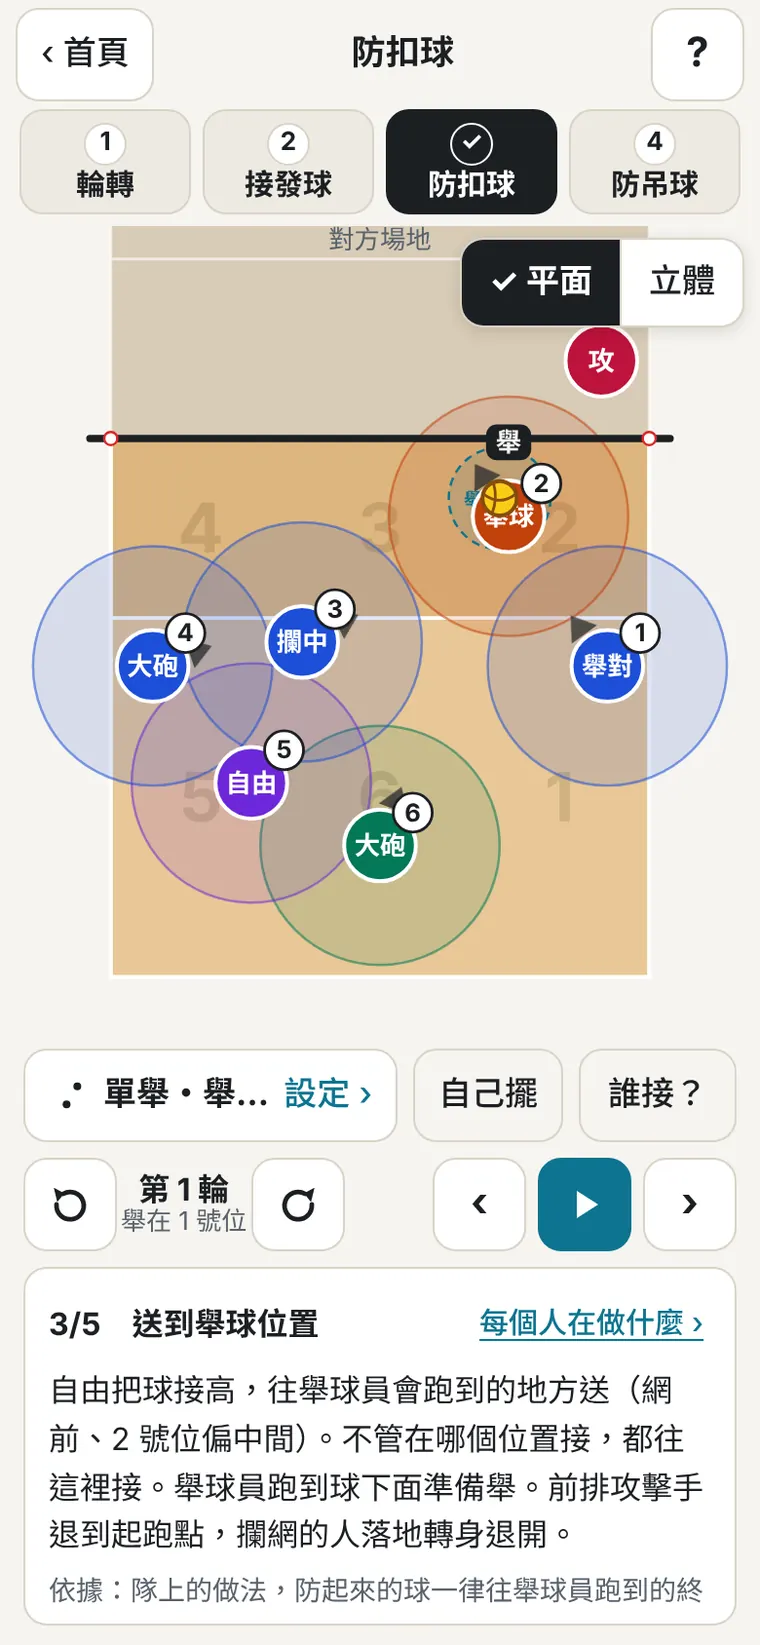
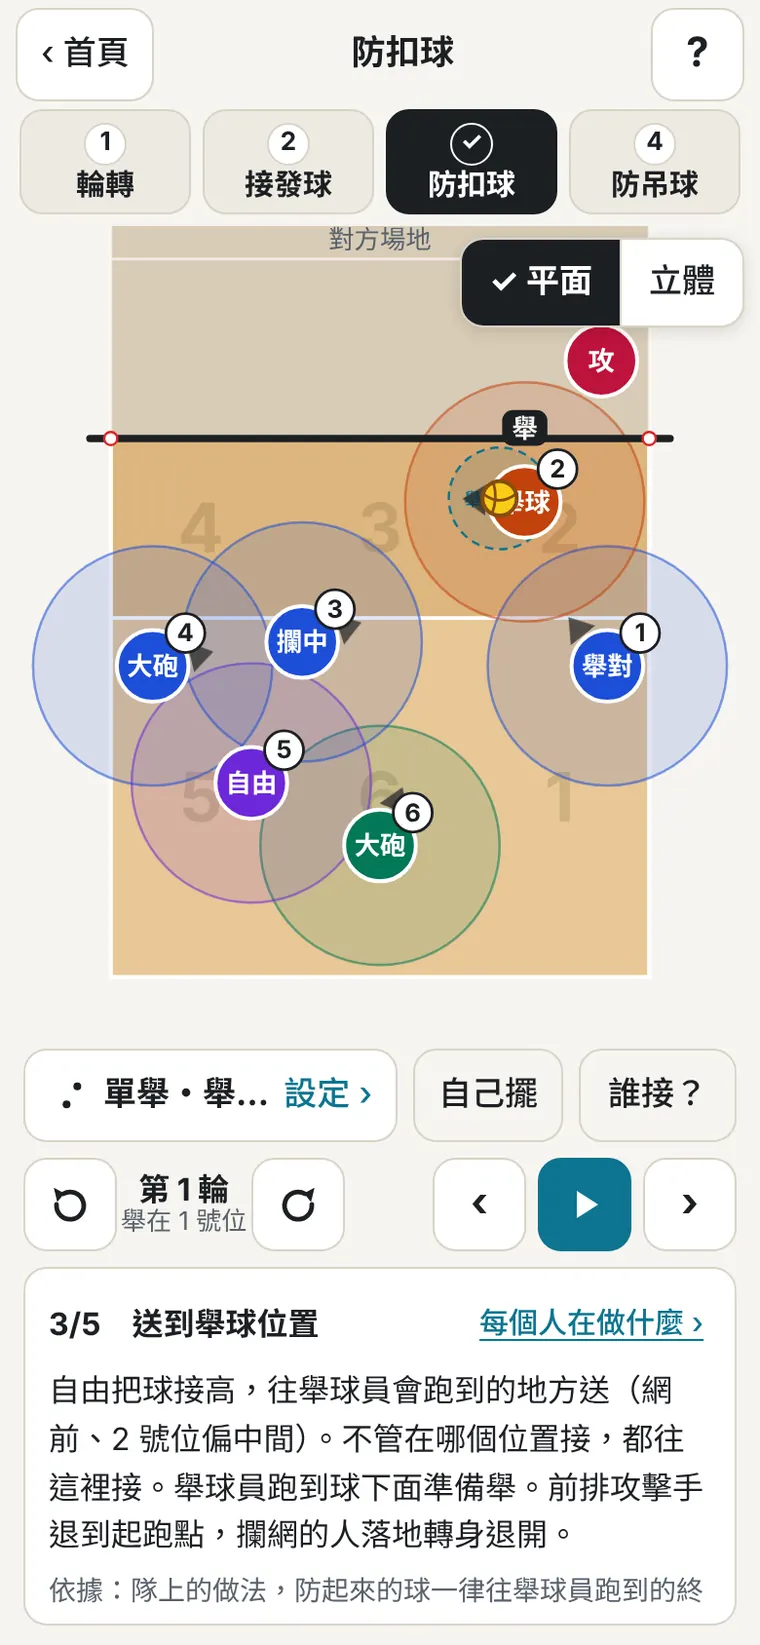
排球站位教室 v2.5.2：球碰到手、舉球員手不亂飛、扣球手型
- 接球、舉球那一刻球會靠到那個人的手上（之前像用腳接、球從身體旁邊過去）
- 舉球員第一人稱：手從下面慢慢抬上來、接到球往攻擊手推出去再放下；鏡頭先盯住接球點，頭不跟著球甩
- 舉球員面向 4 號位、站在球的右邊一點，球落在額頭前上方
- 扣球：左手往上指著球、右手拉到頭的右後上方（之前左手往旁邊平舉）
- 第一人稱時貼在鏡頭旁的隊友先不畫

Claude-Session: https://claude.ai/code/session_01Q8m2fzsawgKx5UKmuuzCmE

diff --git a/js/gl3d.js b/js/gl3d.js
@@ -116,7 +116,7 @@ const POSES = {
   set:       { lean:2,  hip:[14,14], knee:[24,24], sh:[150,150], abd:[30,30],  el:[30,30],  wide:.30, stag:.14, ik:'set' },
   block:     { lean:0,  hip:[10,10], knee:[22,22], sh:[172,172], abd:[6,6],    el:[4,4],    wide:.24, stag:0 },
   blockReady:{ lean:4,  hip:[16,16], knee:[30,30], sh:[110,110], abd:[22,22],  el:[30,30],  wide:.30, stag:0, ik:'blockReady' },
-  spike:     { lean:-6, hip:[16,30], knee:[30,52], sh:[150,168], abd:[20,26],  el:[40,-105], wide:.22, stag:0 },
+  spike:     { lean:-6, hip:[16,30], knee:[30,52], sh:[165,150], abd:[8,30],   el:[10,30],   wide:.22, stag:0, ik:'spike' },
   serve:     { lean:6,  hip:[8,8],   knee:[14,14], sh:[160,120], abd:[16,30],  el:[10,-95], wide:.28, stag:-.22 },
   // 跨步壓低接球：右腳跨出去、膝蓋接近地板，雙手平台伸向球（左腳在前時整個左右對調）
   lunge:     { lean:38, hip:[18,80], knee:[44,104], sh:[64,64],   abd:[-19,-19], el:[0,0],   wide:.78, stag:.48 },
@@ -127,13 +127,13 @@ const POSES = {
 };
 // 跑步：放開手擺臂（不抱著手跑）；amp 是快慢，慢跑擺幅小
 // 兩段手臂（上臂 .29、前臂 .27）：肩膀到目標，手肘往外、往下彎
-function armIK(S0, T, sd){
+function armIK(S0, T, sd, pole){
   const a = .29, c = .27;
   let v = [T[0] - S0[0], T[1] - S0[1], T[2] - S0[2]];
   let d = Math.hypot(v[0], v[1], v[2]) || 1e-3;
   const u = [v[0] / d, v[1] / d, v[2] / d];
   d = Math.min(a + c - .002, Math.max(Math.abs(a - c) + .02, d));
-  let p = [sd, 0, -.5]; const pr = p[0] * u[0] + p[1] * u[1] + p[2] * u[2];
+  let p = pole || [sd, 0, -.5]; const pr = p[0] * u[0] + p[1] * u[1] + p[2] * u[2];
   p = [p[0] - u[0] * pr, p[1] - u[1] * pr, p[2] - u[2] * pr];
   const pl = Math.hypot(p[0], p[1], p[2]) || 1; p = [p[0] / pl, p[1] / pl, p[2] / pl];
   const ca = (a * a + d * d - c * c) / (2 * a * d), sa = Math.sqrt(Math.max(0, 1 - ca * ca));
@@ -323,6 +323,7 @@ function create(canvas, overlay){
     sphere(add(headC, add(mul(F, -.03), [0, 0, .025])), .113, HAIR);
     sphere(add(headC, add(mul(F, -.13), [0, 0, -.02])), .052, HAIR);
     // 手
+    const wrists = [];
     for (let i = 0; i < 2; i++){
       const sd = i ? 1 : -1;
       const shl = [sd * .19, pel[1] + spine[1] * .45, pel[2] + spine[2] * .45];
@@ -331,10 +332,11 @@ function create(canvas, overlay){
       let b = [0, 1, .6]; const pr = dot(b, up); b = norm(sub(b, mul(up, pr)));
       const fore = norm(add(mul(up, Math.cos(el)), mul(b, Math.sin(el))));
       let elb = add(shl, mul(up, .29)), wr = add(elb, mul(fore, .27));
-      if (s.ikW > .01 && s.ikKind){
+      if (s.ikW > .01 && s.ikKind && !(s.ikKind === 'spike' && sd < 0)){
         const head = add(add(add(pel, mul(spine, .58)), [0, .02, .1]), [0, 0, 0]);
-        const T = s.ikKind === 'set' ? add(head, [sd * .1, .2, .2]) : add(shl, [sd * .05, .16, .32]);
-        const ik = armIK(shl, T, sd);
+        // 扣球：右手拉到頭的右後上方，手肘抬高往外（左手照角度往上指著球）
+        const T = s.ikKind === 'set' ? add(head, [sd * .1, .2, .2]) : s.ikKind === 'spike' ? add(head, [.16, -.16, .16]) : add(shl, [sd * .05, .16, .32]);
+        const ik = armIK(shl, T, sd, s.ikKind === 'spike' ? [1, -.3, .6] : null);
         elb = add(elb, mul(sub(ik[0], elb), s.ikW)); wr = add(wr, mul(sub(ik[1], wr), s.ikW));
       }
       const S0 = pt(shl), E0 = pt(elb), W0 = pt(wr);
@@ -344,42 +346,46 @@ function create(canvas, overlay){
       sphere(E0, .041, SKIN);
       limb(E0, W0, .036, SKIN);
       sphere(add(W0, mul(norm(sub(W0, E0)), .04)), .044, SKIN);
+      wrists.push(add(W0, mul(norm(sub(W0, E0)), .05)));
     }
+    s.hand = mul(add(wrists[0], wrists[1]), .5);
     return add(headC, [0, 0, .2]);
   }
   // 第一人稱：自己的兩隻手（雙手前臂合起來，球接進手裡）
   // 第一人稱的手：只畫前臂和手（上臂、肩膀太靠近眼睛，畫出來會變成擋住畫面的大柱子）
-  function drawArms(a){
+  // 手的位置慢慢跟過去：剛出現時從畫面下面抬上來，收手時往下放出畫面，不會一下子跳走
+  const arm = { c:null, sep:.035 };
+  function drawArms(a, dt){
     const e = cam.eye, r = cam.r, Zu = [0, 0, 1];
     const fh = norm([cam.f[0], cam.f[1], 0]);              // 水平的前方
-    const fore = (elb, h) => { limb(elb, h, .032, SKIN); };
+    let tgt, sep;
     if (a.pose === 'set'){
-      // 舉球：雙手在額頭前上方張開成三角形，手肘往外、往下；球來了手迎到球下面
-      let c = add(add(e, mul(Zu, .3)), mul(fh, .26));
-      if (a.at){ const b = a.at; c = [b[0] - fh[0] * .04, b[1] - fh[1] * .04, b[2] - .12]; }
-      for (const sd of [-1, 1]){
-        const h = add(c, mul(r, sd * .085));
-        const elb = add(add(add(h, mul(Zu, -.26)), mul(r, sd * .17)), mul(fh, -.06));
-        fore(elb, h);
-        ellip(h, mul(r, .035), mul(fh, .03), mul(Zu, .055), SKIN);
-      }
-      return;
+      tgt = add(add(e, mul(Zu, .36)), mul(fh, .36)); sep = .09;
+      if (a.at){ const b = a.at; tgt = [b[0] - fh[0] * .04, b[1] - fh[1] * .04, b[2] - .12]; }
+    } else if (a.pose === 'down'){
+      tgt = add(add(e, mul(fh, .35)), mul(Zu, -1.0)); sep = .12;
+    } else {
+      tgt = add(add(e, mul(fh, .6)), mul(Zu, -.6)); sep = .035;
+      if (a.at){ const d = sub(a.at, e), L = Math.hypot(d[0], d[1], d[2]) || 1, kk = Math.max(.5, Math.min(.85, L)) / L; tgt = add(add(e, mul(d, kk)), mul(Zu, -.08)); }
     }
-    let hand = add(add(e, mul(fh, .6)), mul(Zu, -.6));
-    if (a.at){
-      // 接球：雙手併攏成平台，迎到球的下面
-      const d = sub(a.at, e), L = Math.hypot(d[0], d[1], d[2]) || 1, kk = Math.max(.5, Math.min(.85, L)) / L;
-      hand = add(add(e, mul(d, kk)), mul(Zu, -.08));
-    }
-    // 前臂從手往身體方向（往後、往下、稍微往外）
-    const toBody = norm(sub(add(e, mul(Zu, -.45)), hand));
+    if (!arm.c) arm.c = add(add(tgt, mul(Zu, -.55)), mul(fh, .25));
+    const k = 1 - Math.exp(-(dt || 1 / 60) * 11);
+    arm.c = add(arm.c, mul(sub(tgt, arm.c), k));
+    arm.sep += (sep - arm.sep) * k;
+    const c = arm.c, setLike = arm.sep > .06;
     for (const sd of [-1, 1]){
-      const h = add(hand, mul(r, sd * .035));
-      const elb = add(add(h, mul(toBody, .27)), mul(r, sd * .07));
-      fore(elb, h);
-      ellip(h, mul(r, .03), mul(fh, .05), mul(Zu, .022), SKIN);
+      const h = add(c, mul(r, sd * arm.sep));
+      let elb;
+      if (setLike) elb = add(add(add(h, mul(Zu, -.26)), mul(r, sd * .17)), mul(fh, -.06));
+      else { const toBody = norm(sub(add(e, mul(Zu, -.45)), h)); elb = add(add(h, mul(toBody, .27)), mul(r, sd * .07)); }
+      // 只畫靠手的那一段前臂：靠近眼睛的那一段畫出來會變成擋住畫面的大柱子
+      limb(add(h, mul(sub(elb, h), .55)), h, .03, SKIN);
+      if (setLike){ ellip(h, mul(r, .045), mul(fh, .03), mul(Zu, .07), SKIN); ellip(add(h, mul(Zu, .07)), mul(r, .04), mul(fh, .025), mul(Zu, .04), SKIN); }
+      else ellip(h, mul(r, .03), mul(fh, .05), mul(Zu, .022), SKIN);
     }
   }
+  function armHand(){ return arm.c; }
+  function handOf(id){ const s = people.get(id); return s && s.hand; }
   /* ---------- 畫一張 ---------- */
   let lastT = 0;
   function render(scene){
@@ -433,7 +439,7 @@ function create(canvas, overlay){
     }
     if (scene.ball){ const b = scene.ball, sp = (b.spin || 0); const c = Math.cos(sp), sn = Math.sin(sp), r = .105;
       draw(mesh.ball, [c * r, sn * r, 0], [-sn * r, c * r, 0], [0, 0, r], [b.x, b.y, b.z], [1, 1, 1, 1]); }
-    if (scene.arms && scene.arms.on) drawArms(scene.arms);
+    if (scene.arms && scene.arms.on) drawArms(scene.arms, dt); else arm.c = null;
     // 3. 半透明的網子最後畫
     gl.depthMask(false);
     drawStatic(world.net, [1, 1, 1, 1], .2);
@@ -487,7 +493,7 @@ function create(canvas, overlay){
     return [cam.eye[0] + dir[0] * k, cam.eye[1] + dir[1] * k];
   }
   function forget(id){ people.delete(id); }
-  return { resize, render, pick, forget, webgl:true };
+  return { resize, render, pick, forget, handOf, armHand, webgl:true };
 }
 window.VBGL = { create, POSES };
 })();

diff --git a/js/app.js b/js/app.js
@@ -4,7 +4,7 @@
 (() => {
 'use strict';
 
-const APP_VERSION = '2.5.1';
+const APP_VERSION = '2.5.2';
 const BUILD_DATE = '2026-11-16';
 const VERSION_TEXT = `v${APP_VERSION}（${BUILD_DATE}）`;
 const COPY = '© 2026 Ken Chen';
@@ -579,7 +579,7 @@ function buildSteps(L, type, comp, dec, att){
   // 2. 送到舉球位置（舉球員接第一球時送修正球）
   const P2 = clonePos(P1);
   const moved = new Set([setterRole]);
-  P2[setterRole] = [TG[0] + .15, TG[1] + .3];
+  P2[setterRole] = [TG[0] + .42, TG[1] + .06];   // 舉球員面向 4 號位、站在球的右邊一點：球落在額頭前上方
   const attackers = ['OH1','MB','OPP'].filter(r => lu[r].front && r !== setterRole && !(r === d && L[1] > 5));
   for (const r of attackers){ P2[r] = APPROACH[r].slice(); moved.add(r); }
   if (!moved.has(d)){
@@ -754,7 +754,7 @@ function buildRecvSteps(L, rc, dec){
       : rc.passers.includes(r) ? '轉身面向接球的人，準備移動' : '看球，準備攻擊') });
   // 2. 傳到舉球員
   const P2 = clonePos(P1);
-  P2.S = [rt()[0] + .1, rt()[1] + .25];
+  P2.S = [rt()[0] + .42, rt()[1] + .06];
   // 前排攻擊手退到起跑點：攔中在中間，另外兩個照現在左右的位置（第一波先從站的那一邊攻擊）
   const attackers = ['OH1','MB','OPP'].filter(r => lu[r].front);
   const wing = attackers.filter(r => r !== 'MB').sort((a, b) => P1[a][0] - P1[b][0]);
@@ -1620,7 +1620,12 @@ function camera3(now, role, dt, st){
   const eye = [p[0], p[1], (setting ? 1.55 : 1.3) + jumpZ('us:' + role, now)];
   let tg;
   if (!st || key === 'read' || key === 'stand') tg = S.step === 'recv' ? [S.serveX, SERVER_Y, 2.4] : [S.attacker.x, S.attacker.y, 2.6];
-  else if (ball3.show) tg = [ball3.x, ball3.y, ball3.z];
+  else if (setting && st.ball && key === 'pass' && ball3.show && Math.hypot(ball3.x - st.ball.to[0], ball3.y - st.ball.to[1]) < 2.6){
+    // 舉球員：球快到時眼睛先盯著要接球的地方（額頭前上方），頭不要跟著球甩
+    const c = ballEnd3(st.ball); tg = [c[0], c[1], c[2] + .1];
+  } else if (setting && key === 'set' && st.ball && now - play.t0 < 450 * speedK()){
+    tg = [st.ball.from[0], st.ball.from[1], zAt(st.ball.z, 0) + .1];
+  } else if (ball3.show) tg = [ball3.x, ball3.y, ball3.z];
   else tg = [4.5, -4, 1.4];
   const dx = tg[0] - eye[0], dy = tg[1] - eye[1], dz = tg[2] - eye[2], hd = Math.hypot(dx, dy);
   // 舉球時球會到頭上：可以抬頭看到快 75 度
@@ -1693,6 +1698,24 @@ function zones3(){
   if (z.shadow){ const c = clipRect(z.shadow); if (c.length > 2) out.push({ pts:c, color:[.85, .47, .02, .42], fill:'rgba(217,119,6,.42)' }); }
   return out;
 }
+// 接球、舉球那一刻：球慢慢靠到那個人的手上（離接觸點 1.2 公尺內開始靠），離開手時再慢慢回到原本的路線
+function ballToHands(ball, st, role){
+  const m = st.marks || {}, b = st.ball; if (!b || !b.from) return;
+  const prev = play.steps[play.i - 1], pm = (prev && prev.marks) || {};
+  let toWho = null, fromWho = null;
+  if (st.key === 'dig' || st.key === 'serve') toWho = m.dig;
+  if (st.key === 'pass'){ fromWho = pm.dig; toWho = m.set; }
+  if (st.key === 'set') fromWho = m.set;
+  const handAt = who => { if (!who) return null; const h = who === role ? v3.r.armHand() : v3.r.handOf('us:' + who); return h ? [h[0], h[1], h[2] + (who === role ? .1 : .07)] : null; };
+  const pull = (who, C) => {
+    const h = handAt(who); if (!h || !C) return;
+    const d = Math.hypot(ball.x - C[0], ball.y - C[1], ball.z - C[2]); const w = clamp(1 - d / 1.2, 0, 1); if (!w) return;
+    const e = w * w * (3 - 2 * w);
+    ball.x += (h[0] - ball.x) * e; ball.y += (h[1] - ball.y) * e; ball.z += (h[2] - ball.z) * e;
+  };
+  pull(toWho, ballEnd3(b));
+  const f3 = b.from3 || b.from; pull(fromWho, [f3[0], f3[1], zAt(b.z, 0)]);
+}
 function frame3(now){
   v3.raf = requestAnimationFrame(frame3);
   if (document.hidden || !v3.r || !play.comp) return;
@@ -1726,13 +1749,26 @@ function frame3(now){
   const ball = ball3.show ? { x:ball3.x, y:ball3.y, z:ball3.z, spin:now / 150 } : null;
   const mk2 = (st && st.marks) || {}, rp = role ? (posNow(role, now) || comp.pos[role]) : null;
   const bd = role && ball ? Math.hypot(ball.x - rp[0], ball.y - rp[1]) : 99;
-  // 只有這一球接球的人才伸手接；舉球的人在球快到時雙手舉到額頭
-  const setNow = role && ball && mk2.set === role && (st.key === 'pass' || (st.key === 'set' && now - play.t0 < 260 * speedK())) && bd < 2.2 && ball.z > 1.3;
+  // 球碰到手的那一刻，球畫在手上（接球、舉球都是），不會從腳邊或身體穿過去
+  if (ball && st && v3.r.handOf) ballToHands(ball, st, role);
+  // 只有這一球接球的人才伸手接；舉球的人：球快到時雙手舉到額頭、接到球往攻擊手推出去、推完手放下
+  let armPose = null, armAt = null;
+  if (role && ball && mk2.set === role && st.key === 'pass' && bd < 2.4 && ball.z > 1.2){
+    armPose = 'set'; const c = ballEnd3(st.ball); if (bd < 1.3) armAt = c;
+  } else if (role && mk2.set === role && st.key === 'set'){
+    const t = (now - play.t0) / speedK(), c = st.ball ? [st.ball.from[0], st.ball.from[1], zAt(st.ball.z, 0)] : null;
+    if (t < 420 && c){ const H = st.ball.to, v = unit([H[0] - c[0], H[1] - c[1]]), e = Math.min(1, t / 300); armPose = 'set'; armAt = [c[0] + v[0] * .18 * e, c[1] + v[1] * .18 * e, c[2] + .22 * e]; }
+    else if (t < 1100) armPose = 'down';
+  }
   const near = role && ball && mk2.dig === role && bd < 1.6 && ball.z < 2;
-  const scene = { camera:camera3(now, role, dt, st), people: v3.gl ? people : people.filter(p => !p.hidden), ball,
+  const setNow = !!armPose;
+  const cam3 = camera3(now, role, dt, st);
+  // 第一人稱時，貼在鏡頭旁邊（0.6 公尺內）的隊友先不畫，不然整個畫面會被一顆頭擋住
+  if (role) for (const pp of people) if (!pp.hidden && Math.hypot(pp.x - cam3.eye[0], pp.y - cam3.eye[1]) < .6) pp.hidden = true;
+  const scene = { camera:cam3, people: v3.gl ? people : people.filter(p => !p.hidden), ball,
     dark:darkMQ.matches, zones:zones3(), target: mk ? (mk === 'fix' ? FIX_T : rt()) : null,
     hud:(role ? `第一人稱：${ROLE_INFO[role].name}的眼睛` : '看台視角') + '・慢動作',
-    arms: role && (near || setNow) ? { on:true, pose: setNow ? 'set' : (near ? 'platform' : 'ready'), at: (near || (setNow && bd < 1.2)) ? [ball.x, ball.y, ball.z] : null, color:v3.colors[groupOf(role, lu)] } : null };
+    arms: role && (near || setNow) ? { on:true, pose: setNow ? armPose : 'platform', at: setNow ? armAt : [ball.x, ball.y, ball.z], color:v3.colors[groupOf(role, lu)] } : null };
   v3.r.render(scene);
 }
 function makeRenderer(){

diff --git a/sw.js b/sw.js
@@ -1,6 +1,6 @@
 /* 排球站位教室：離線快取。先問網站有沒有新版（最多等 3 秒），連不上或回錯誤就用存好的版本。 */
 const PREFIX = 'vbdef-';
-const VERSION = '2.5.1';
+const VERSION = '2.5.2';
 const CACHE = PREFIX + VERSION;
 const ASSETS = [
   './', 'index.html', 'css/app.css', 'js/rotation.js', 'js/render3d.js', 'js/gl3d.js', 'js/diagrams.js', 'js/app.js', 'manifest.webmanifest',

diff --git a/README.md b/README.md
@@ -40,7 +40,7 @@
 
 ## 退回舊版
 
-每次改版前都會先把目前的 `main` 另存成備份分支（例如 `backup-v1.1.0`、`backup-v2.0.0`、`backup-v2.1.0`、`backup-v2.2.0`、`backup-v2.3.0`、`backup-v2.4.0`、`backup-v2.5.0`）。新版有問題時：
+每次改版前都會先把目前的 `main` 另存成備份分支（例如 `backup-v1.1.0`、`backup-v2.0.0`、`backup-v2.1.0`、`backup-v2.2.0`、`backup-v2.3.0`、`backup-v2.4.0`、`backup-v2.5.0`、`backup-v2.5.1`）。新版有問題時：
 
 1. 在 GitHub 打開備份分支，把檔案放回 `main`（或在電腦上 `git checkout backup-v1.1.0 -- .` 再推上去）。
 2. 把 `sw.js` 的 `VERSION` 改成一個新的號碼（例如 `1.1.1`），手機才會丟掉有問題的快取。
